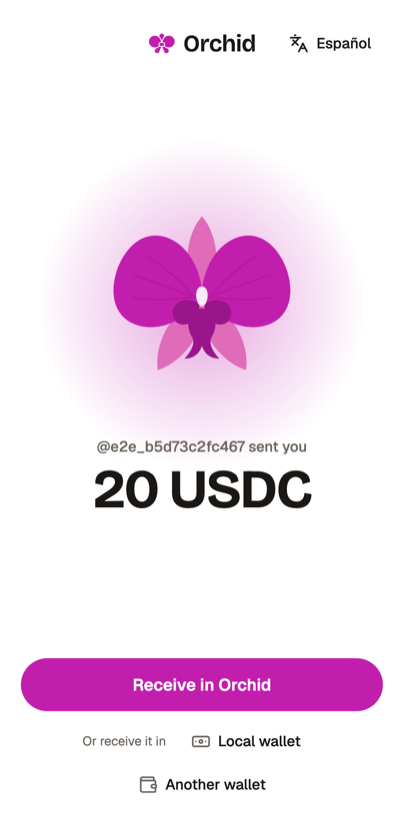
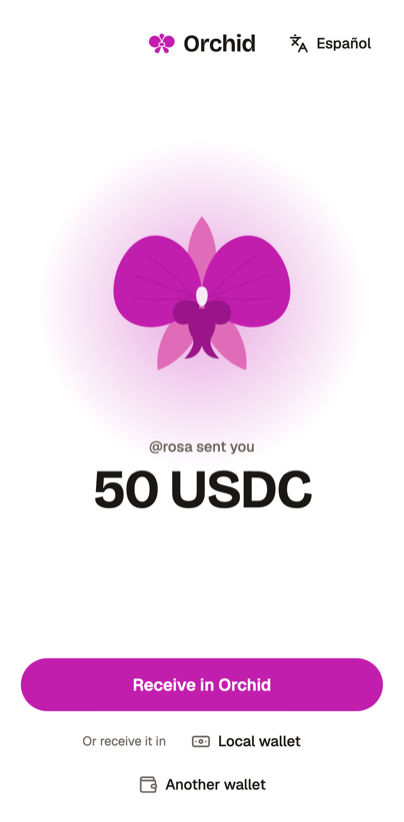
fix: wrap long payout accounts and tighten the method picker
Long Mercado Pago emails and PIX keys now wrap inside the review card
and tracker instead of overflowing on mobile. A digit-only PIX random
key keeps its hyphens, re-choosing a method drops the previous quote
until the new one arrives, and the flag lives only on phone entries.
The README offer screenshot now shows the demo sender @rosa.

diff --git a/apps/web/src/links/payout-methods.ts b/apps/web/src/links/payout-methods.ts
@@ -22,6 +22,7 @@ export type PayoutMethodKind = PayoutDestination["_tag"];
 
 export type AccountEntry = Data.TaggedEnum<{
   Mobile: {
+    readonly flag: string;
     readonly dialCode: string;
     readonly groups: ReadonlyArray<number>;
     readonly placeholder: string;
@@ -38,7 +39,6 @@ export interface PayoutMethod {
   readonly kind: PayoutMethodKind;
   readonly name: string;
   readonly logo: string;
-  readonly flag: string;
   readonly currency: LocalCurrency;
   readonly country: () => string;
   readonly accountLabel: () => string;
@@ -68,10 +68,13 @@ const yapeGroups = [3, 3, 3];
 
 const nequiGroups = [3, 3, 4];
 
+const randomPixKey =
+  /^[0-9a-f]{8}-[0-9a-f]{4}-[0-9a-f]{4}-[0-9a-f]{4}-[0-9a-f]{12}$/iu;
+
 const pixKeyOf = (typed: string) => {
   const trimmed = typed.trim();
 
-  return /^[\d\s().\-/+]+$/u.test(trimmed)
+  return !randomPixKey.test(trimmed) && /^[\d\s().\-/+]+$/u.test(trimmed)
     ? trimmed.replaceAll(/[\s().\-/]/gu, "")
     : trimmed.toLowerCase();
 };
@@ -80,13 +83,13 @@ const yape: PayoutMethod = {
   kind: "YapeAccount",
   name: "Yape",
   logo: cashOutAsset("logos/yape.png"),
-  flag: cashOutAsset("flags/pe.svg"),
   currency: payoutCurrencies.YapeAccount,
   country: m.payout_country_peru,
   accountLabel: m.payout_yape_label,
   accountHint: m.payout_yape_hint,
   accountInvalid: m.payout_yape_invalid,
   entry: AccountEntry.Mobile({
+    flag: cashOutAsset("flags/pe.svg"),
     dialCode: "+51",
     groups: yapeGroups,
     placeholder: "987 654 321",
@@ -101,7 +104,6 @@ const pix: PayoutMethod = {
   kind: "PixAccount",
   name: "PIX",
   logo: cashOutAsset("logos/pix.svg"),
-  flag: cashOutAsset("flags/br.svg"),
   currency: payoutCurrencies.PixAccount,
   country: m.payout_country_brazil,
   accountLabel: m.payout_pix_label,
@@ -118,13 +120,13 @@ const nequi: PayoutMethod = {
   kind: "NequiAccount",
   name: "Nequi",
   logo: cashOutAsset("logos/nequi.svg"),
-  flag: cashOutAsset("flags/co.svg"),
   currency: payoutCurrencies.NequiAccount,
   country: m.payout_country_colombia,
   accountLabel: m.payout_nequi_label,
   accountHint: m.payout_nequi_hint,
   accountInvalid: m.payout_nequi_invalid,
   entry: AccountEntry.Mobile({
+    flag: cashOutAsset("flags/co.svg"),
     dialCode: "+57",
     groups: nequiGroups,
     placeholder: "300 123 4567",
@@ -139,7 +141,6 @@ const mercadoPago: PayoutMethod = {
   kind: "MercadoPagoAccount",
   name: "Mercado Pago",
   logo: cashOutAsset("logos/mercadopago.svg"),
-  flag: cashOutAsset("flags/mx.svg"),
   currency: payoutCurrencies.MercadoPagoAccount,
   country: m.payout_country_mexico,
   accountLabel: m.payout_mercadopago_label,

diff --git a/apps/web/src/links/payout-flow.tsx b/apps/web/src/links/payout-flow.tsx
@@ -133,6 +133,7 @@ export function PayoutFlow({
   const choose = (method: PayoutMethod) => {
     setAccount("");
     setTouched(false);
+    setQuote(Option.none());
     setStep(PayoutFlowStep.Form({ method, notice: Option.none() }));
     task.run(walletEffects.quotePayout(code, method.currency), (answer) =>
       Predicate.isTagged(answer, "PayoutQuote")
@@ -389,11 +390,11 @@ export function PayoutFlow({
                   {method.accountLabel()}
                 </FieldLabel>
                 {Match.value(method.entry).pipe(
-                  Match.tag("Mobile", ({ dialCode, placeholder }) => (
+                  Match.tag("Mobile", ({ flag, dialCode, placeholder }) => (
                     <InputGroup>
                       <InputGroupAddon>
                         <img
-                          src={method.flag}
+                          src={flag}
                           alt=""
                           className="size-5 rounded-full"
                         />
@@ -490,12 +491,14 @@ export function PayoutFlow({
               className="flex flex-col divide-y divide-border rounded-lg border border-border px-4"
             >
               <ReviewRow label={m.payout_review_to()}>
-                <span className="inline-flex items-center gap-2">
+                <span className="inline-flex max-w-full items-center gap-2">
                   <PayoutLogo method={method} />
-                  {m.payout_review_account({
-                    method: method.name,
-                    account: payoutAccountLabel(shown.destination),
-                  })}
+                  <span className="min-w-0 wrap-anywhere">
+                    {m.payout_review_account({
+                      method: method.name,
+                      account: payoutAccountLabel(shown.destination),
+                    })}
+                  </span>
                 </span>
               </ReviewRow>
               <ReviewRow label={m.payout_review_from_link()}>

diff --git a/apps/web/src/links/payout-status.tsx b/apps/web/src/links/payout-status.tsx
@@ -182,12 +182,14 @@ export function PayoutTracker({
           <p className="font-display text-display tabular-nums">
             {localAmountLabel(local)}
           </p>
-          <p className="inline-flex items-center gap-2 text-label text-muted-foreground">
+          <p className="inline-flex max-w-full items-center gap-2 text-label text-muted-foreground">
             <PayoutLogo method={method} />
-            {m.payout_status_to({
-              method: method.name,
-              account: payoutAccountLabel(destination),
-            })}
+            <span className="min-w-0 wrap-anywhere">
+              {m.payout_status_to({
+                method: method.name,
+                account: payoutAccountLabel(destination),
+              })}
+            </span>
           </p>
         </header>
         <ol className="flex flex-col">

diff --git a/apps/web/src/send/payment-review.tsx b/apps/web/src/send/payment-review.tsx
@@ -14,8 +14,8 @@ export function ReviewRow({
 }) {
   return (
     <div className="flex items-start justify-between gap-4 py-3">
-      <dt className="text-body text-muted-foreground">{label}</dt>
-      <dd className="text-right text-label-lg">{children}</dd>
+      <dt className="shrink-0 text-body text-muted-foreground">{label}</dt>
+      <dd className="min-w-0 text-right text-label-lg">{children}</dd>
     </div>
   );
 }

diff --git a/README.md b/README.md
@@ -27,7 +27,7 @@
 <table>
   <tr>
     <td align="center" width="25%">
-      <img src="docs/assets/payment-link-offer.png" alt="Payment link offer screen showing a USDC payment link with Orchid, local wallet, and external wallet options" width="195" />
+      <img src="docs/assets/payment-link-offer.png" alt="Payment link offer screen showing 50 USDC from @rosa with Orchid, local wallet, and external wallet options" width="195" />
       <br />
       <sub><strong>Payment link</strong><br />Claim in Orchid, a local wallet, or another wallet</sub>
     </td>
